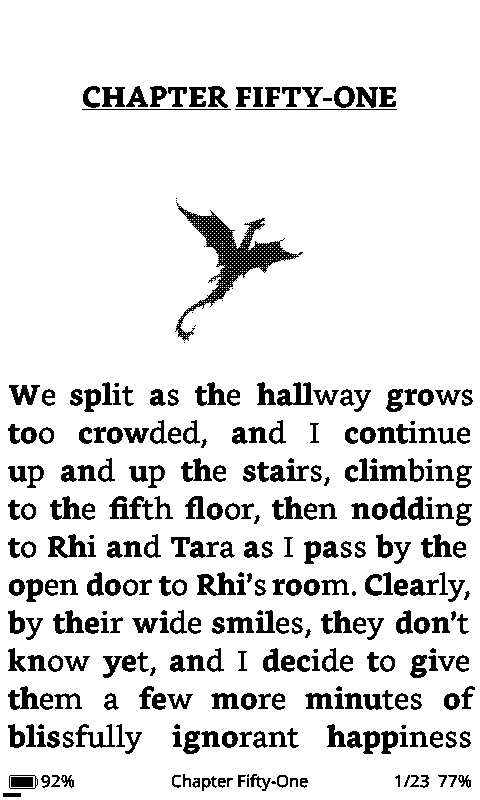
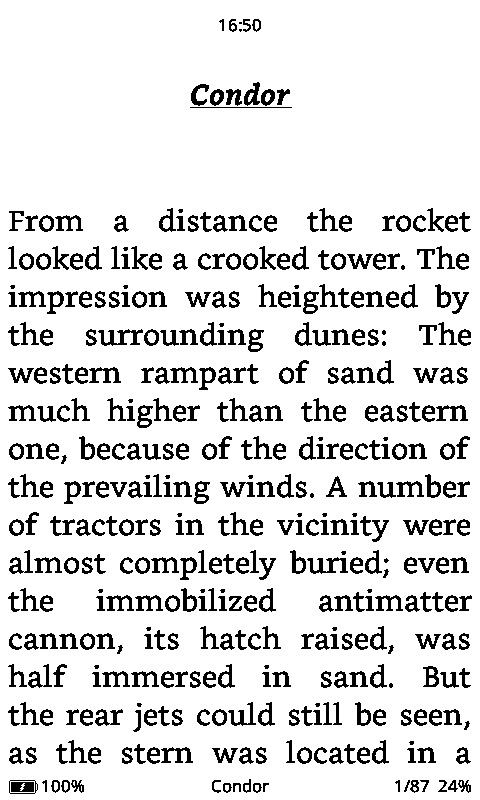
docs: refresh README features + screenshots
Document the reading companion (pet), the stats calendar/badges/Wrapped views, the Bookshelf grid, and the cover progress bars + completed badges; correct stats.bin to v8; refresh the roadmap and screenshots (home/reading/series updated, bookshelf + calendar added). Add a standing CLAUDE.md rule to keep README in sync whenever features change.

Changed region(s): [[0.0, 0.25, 1.0, 1.0], [0.1562, 0.0938, 0.8438, 0.1562], [0.5, 0.0, 0.5312, 0.0625]]

diff --git a/README.md b/README.md
@@ -8,10 +8,15 @@ AALU is a custom firmware for the Xteink X4 e-paper reader, built for people who
 
 ## Screenshots
 
-| Home | Reading | Series viewer |
+| Home | Bookshelf | Series viewer |
 | :---: | :---: | :---: |
-| ![Home screen — current read with progress bar, library grid with series-count badges, and the bottom menu](./docs/images/screenshots/home.jpeg) | ![Reading view — chapter heading, body text, and a footer with battery, chapter name, page count, and progress](./docs/images/screenshots/reading.jpeg) | ![Series viewer — all books in a series shown in reading order](./docs/images/screenshots/series-viewer.jpeg) |
-| Hero book with a progress bar, time-left and time-read readouts, "Library" grid with series-count badges, and the bottom menu (Files / Statistics / Transfer / Settings). | In-book reading view with chapter title, body text, and a footer that shows battery, current chapter, page in chapter, and overall progress. | Drill-in series viewer reached from any stack tile — every member of the series shown in reading order. |
+| ![Home screen — hero read with a progress bar, recents row with series-count badges, and the bottom menu](./docs/images/screenshots/home.jpeg) | ![Bookshelf — the full library as a cover grid with series stacks collapsed behind count badges](./docs/images/screenshots/bookshelf.jpeg) | ![Series viewer — every book in a series in reading order with per-book status badges](./docs/images/screenshots/series-viewer.jpeg) |
+| Hero book with a progress bar plus time-read / time-left readouts, a recents row with series-count badges, and the bottom menu (Bookshelf / Stats / Transfer / Settings). | Your whole library as a grid — every book, with series collapsed under a count badge. Long-press to delete, long-press Back to rescan. | Drill into a series stack: every member in reading order with a status badge — ▶ for the book you're reading, ✓ for finished. |
+
+| Reading | Statistics — Calendar |
+| :---: | :---: |
+| ![Reading view — chapter heading, body text, and a footer with battery, chapter, page, and progress](./docs/images/screenshots/reading.jpeg) | ![Stats calendar — a monthly reading-activity heatmap shaded by minutes read](./docs/images/screenshots/stats-calendar.jpeg) |
+| In-book reading view with chapter title, body text, and a footer that shows battery, current chapter, page in chapter, and overall progress. | One of six stats views: a month heatmap shading each day by minutes read (Light → Avid). Page back through months with the side buttons. |
 
 ---
 
@@ -39,17 +44,22 @@ Everything below is on top of what Seek Reader / CrossPoint already do.
 ### Organizing your library
 - **Automatic series grouping.** Books that share `calibre:series` or EPUB 3 collection metadata are bundled into a single home tile with a count badge. Folder-name fallback handles non-tagged collections.
 - **Series viewer.** Open a stack tile to see every member of the series in reading order, with the most-recently-read book pre-focused for "continue reading" in one tap.
+- **Bookshelf.** A full-library grid of every book on the card — not just recents — with series stacks collapsed behind a count badge. Long-press Confirm to delete a book, long-press Back to rescan the SD card.
+- **Cover progress at a glance.** Individual covers carry a thin progress bar while you're mid-book and a check badge once finished — on Recents, Bookshelf, and the series viewer. Series stacks show their book-count badge instead.
 - **Remove from recents.** Long-press Confirm (≥1 second) on a recents tile to clear it from home without deleting the file or losing your progress cache.
 
 ### Reading statistics, redone
-- **All-time dashboard** — total reading hours and finished-books count.
-- **Reading vs. Finished** views, toggled with the Right button.
+- **Six stat views**, cycled with the Right button: Reading list, Finished list, Badges, Pet, Calendar, and a year-in-review "Wrapped".
+- **All-time dashboard** — total reading hours, finished-books count, and current / longest streak.
 - **Per-book analytics** — last session duration, total reading time, average pages-per-minute.
+- **Reading companion.** A pet that levels up as you read: XP scales with pages turned and it evolves across 11 stages, cat → tiger → dragon (up to 30,000 XP). Its hunger and happiness decay hour-by-hour since your last session, so a steady habit keeps it thriving.
+- **Reading calendar.** A month heatmap shading each day by minutes read (Light → Avid reader); page back through months with the side buttons — including months you didn't read.
+- **Achievement badges.** Streaks (3 / 7 / 30 / 100 days), books finished (1 / 10 / 25 / 50), pages turned (1k / 10k / 100k), reading hours (10 / 50 / 100), plus early-bird and night-owl.
 - **Stale-book filter** — books at 0% with 0 reading time stay hidden until you actually read them.
 - **Deep-sleep protection** — sessions are saved on power-off, not lost.
 - **Session guarding** — 3-minute minimum prevents short peeks from polluting the stats.
 - **Self-healing progress** — finished books correctly read 100% (not 99%) across home, status bar, and stats.
-- Binary migration engine for `stats.bin` (v4/v5 → v6) on firmware upgrade.
+- Binary migration engine keeps `stats.bin` current across firmware upgrades (now v8, after the pet and calendar data added new fields).
 
 ### Reader experience
 - **In-reader Quick Settings overlay (Aa)** — fonts, sizes, margins, line spacing, layout — all adjusted *over* the book text. No full-screen settings round-trip, no flash hammering (writes are deferred), no E-ink ghosting.
@@ -134,9 +144,9 @@ python3 scripts/debugging_monitor.py
 See [USER_GUIDE.md](./USER_GUIDE.md) for the day-to-day operation reference. The short version:
 
 - **Confirm** on a tile to open a book, a series viewer, or a menu item.
-- **Long-press Confirm** on a recents tile to remove it from home.
-- **Back** to go up a level; **long-press Back** in the reader to jump home.
-- **Right** in stats to toggle between Reading and Finished views.
+- **Long-press Confirm** on a recents tile to remove it from home (or on a Bookshelf book to delete it).
+- **Back** to go up a level; **long-press Back** in the reader to jump home, or on the Bookshelf to rescan the card.
+- **Right** in Stats cycles the six views (Reading, Finished, Badges, Pet, Calendar, Wrapped); **Up/Down** page months in the Calendar.
 - **Aa** while reading to open the Quick Settings overlay.
 
 ---
@@ -180,12 +190,14 @@ For the gory format details, see [`docs/file-formats.md`](./docs/file-formats.md
 
 AALU is **actively developed** — I'm using it as my daily reader and shaping it as I go. Recent work has landed:
 
-- ✅ Long-press to remove from recents
+- ✅ Reading companion (pet) that evolves cat → tiger → dragon as you read
+- ✅ Stats calendar heatmap, achievement badges, and a "Wrapped" year-in-review
+- ✅ Cover progress bars + completed badges on Recents, Bookshelf, and the series viewer
+- ✅ Bookshelf — a full-library grid with series stacks and long-press delete
 - ✅ Series stacks on home + drill-in series viewer
 - ✅ Statistics overhaul (Reading / Finished views, stale-book filter)
+- ✅ Long-press to remove from recents
 - ✅ 100%-not-99% progress fix across home / stats / reader
-- ✅ Heap fix for File Transfer launched from home
-- ✅ Cover rendering consistency across home, groups, and stats
 
 On the radar:
 

diff --git a/.skills/SKILL.md b/.skills/SKILL.md
@@ -14,6 +14,7 @@ Repo: `/Users/disrael/Projects/personal/xteink/aalu`. Version: see `[aalu] versi
 - Justify any new heap allocation. Explain memory/perf claims by mechanism (DRAM vs IRAM, etc.).
 - After any change: instruct the user how to verify (heap, cache, all 4 orientations).
 - **Always build + run host tests after changes.** See [Testing Workflow](#testing-workflow). No exceptions, even one-line edits.
+- **Keep `README.md` in sync with features.** Whenever you add, remove, or materially change a user-facing feature, update `README.md` in the same change — its "What's new in AALU" list, the "Using it" reference, and the "Roadmap" (move shipped items into the ✅ landed list). If the change is visual, refresh the affected screenshot in `docs/images/screenshots/`: capture it in the emulator (Power+Down — `P`+`↓` — writes a BMP to `sdcard/screenshots/`), convert with `sips -s format jpeg <in>.bmp --out docs/images/screenshots/<name>.jpeg`, or ask the user to regenerate it.
 
 ---
 